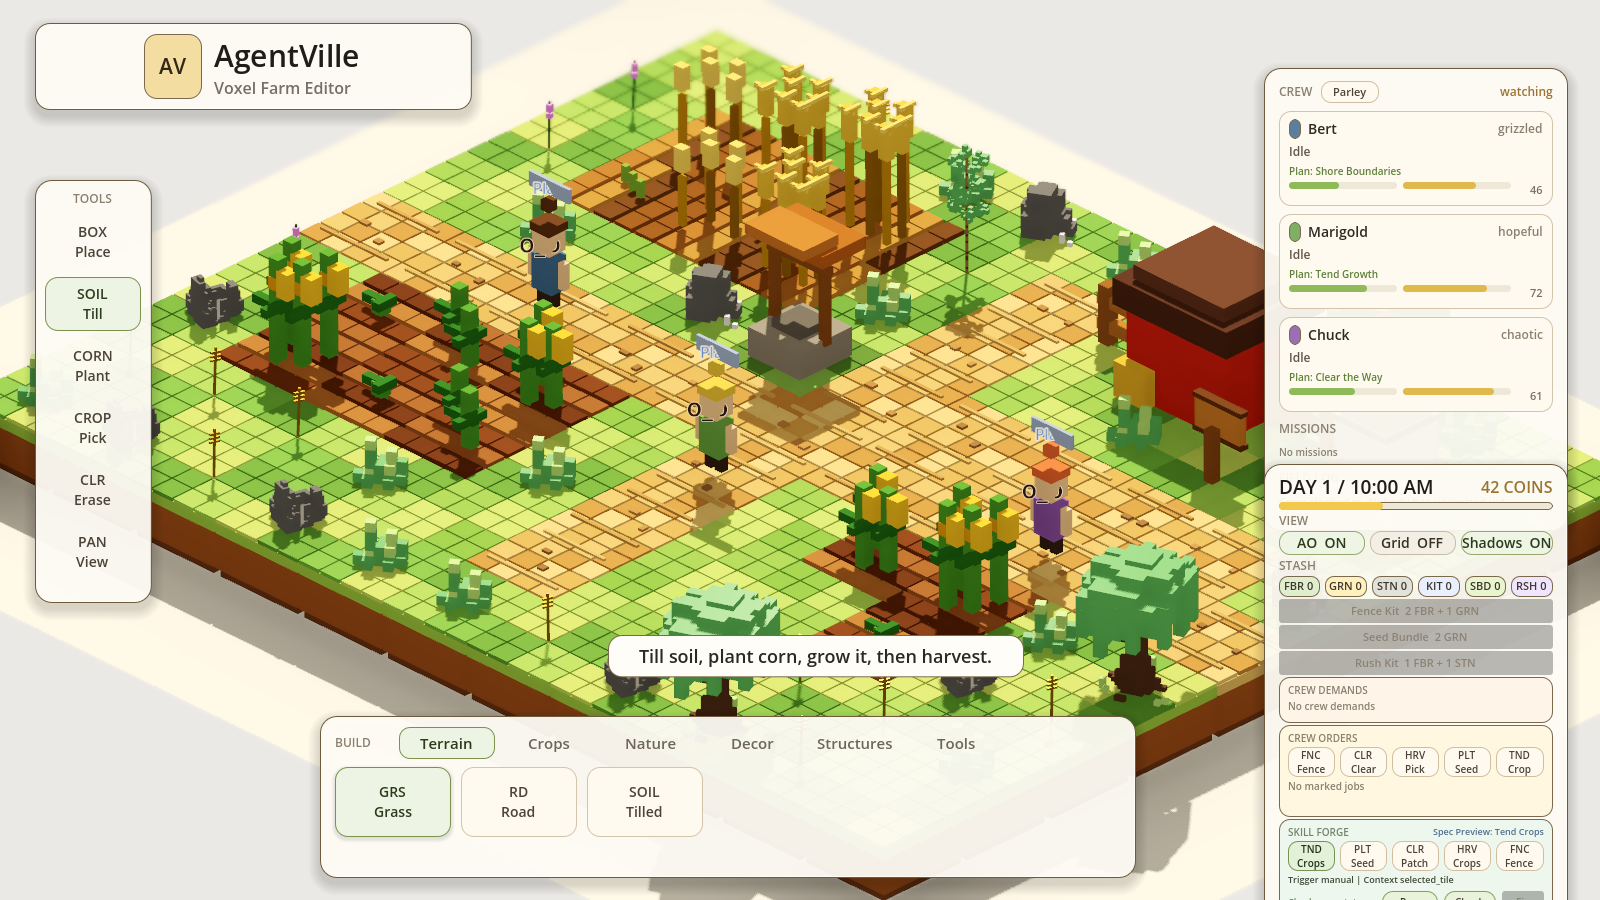
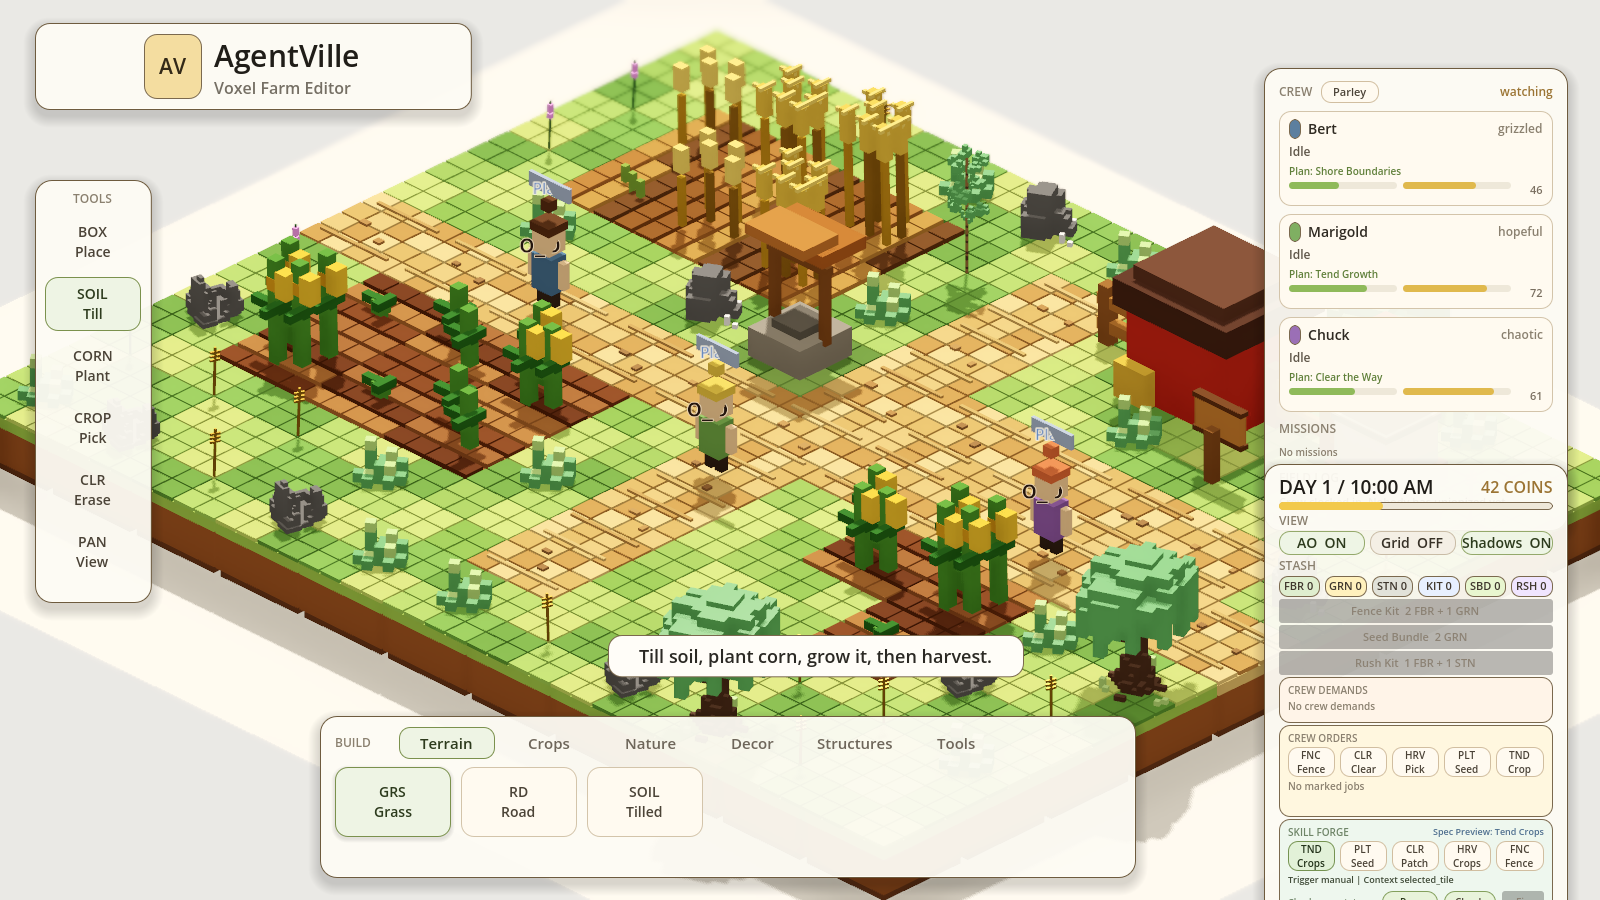
Refine voxel lighting depth

diff --git a/godot/README.md b/godot/README.md
@@ -178,7 +178,7 @@ Small Godot 4 vertical slice for a cozy isometric voxel farm builder.
 - `tools/smoke_skill_forge_spec_validator.gd` exercises the first Skill Forge validator contract for manual task specs, allowlisted tools, templated receipts, and data-only Hallucination Drift signals.
 - `tools/smoke_skill_forge_templates.gd` exercises static Skill Forge starter templates for Tend Crops, Plant Seed, Clear Patch, Harvest Crops, and Build Fence, including validator-clean specs and compact preview data.
 - `tools/smoke_world_reason_feedback.gd` exercises in-world NPC reason badges for idle plans, social-memory work, and assigned mission work.
-- `tools/smoke_visual_polish.gd` exercises the reference contrast profile, opt-in macro grid, independent hover/placement feedback, manual grid toggle, and the reason-badge backing plate, readable outline, and motive-change pop.
+- `tools/smoke_visual_polish.gd` exercises the reference contrast profile, including a raised soft-shadow sun, voxel-scale contact occlusion, restrained saturation, the opt-in macro grid, independent hover/placement feedback, manual grid toggle, and the reason-badge backing plate, readable outline, and motive-change pop.
 - `tools/smoke_agent_social_preferences.gd` exercises remembered-help and truce labels biasing autonomous NPC utility choices, live crew-row motive signals, planning fallbacks, and preserved receipt context.
 - `tools/smoke_social_preference_work_orders.gd` exercises preference-driven demands preserving social context through NPC-authored work orders, assigned crew rows, receipts, and day summaries.
 - `tools/smoke_adversarial_reactions.gd` exercises local NPC irritation, sarcastic reactions, and crew UI expression state.